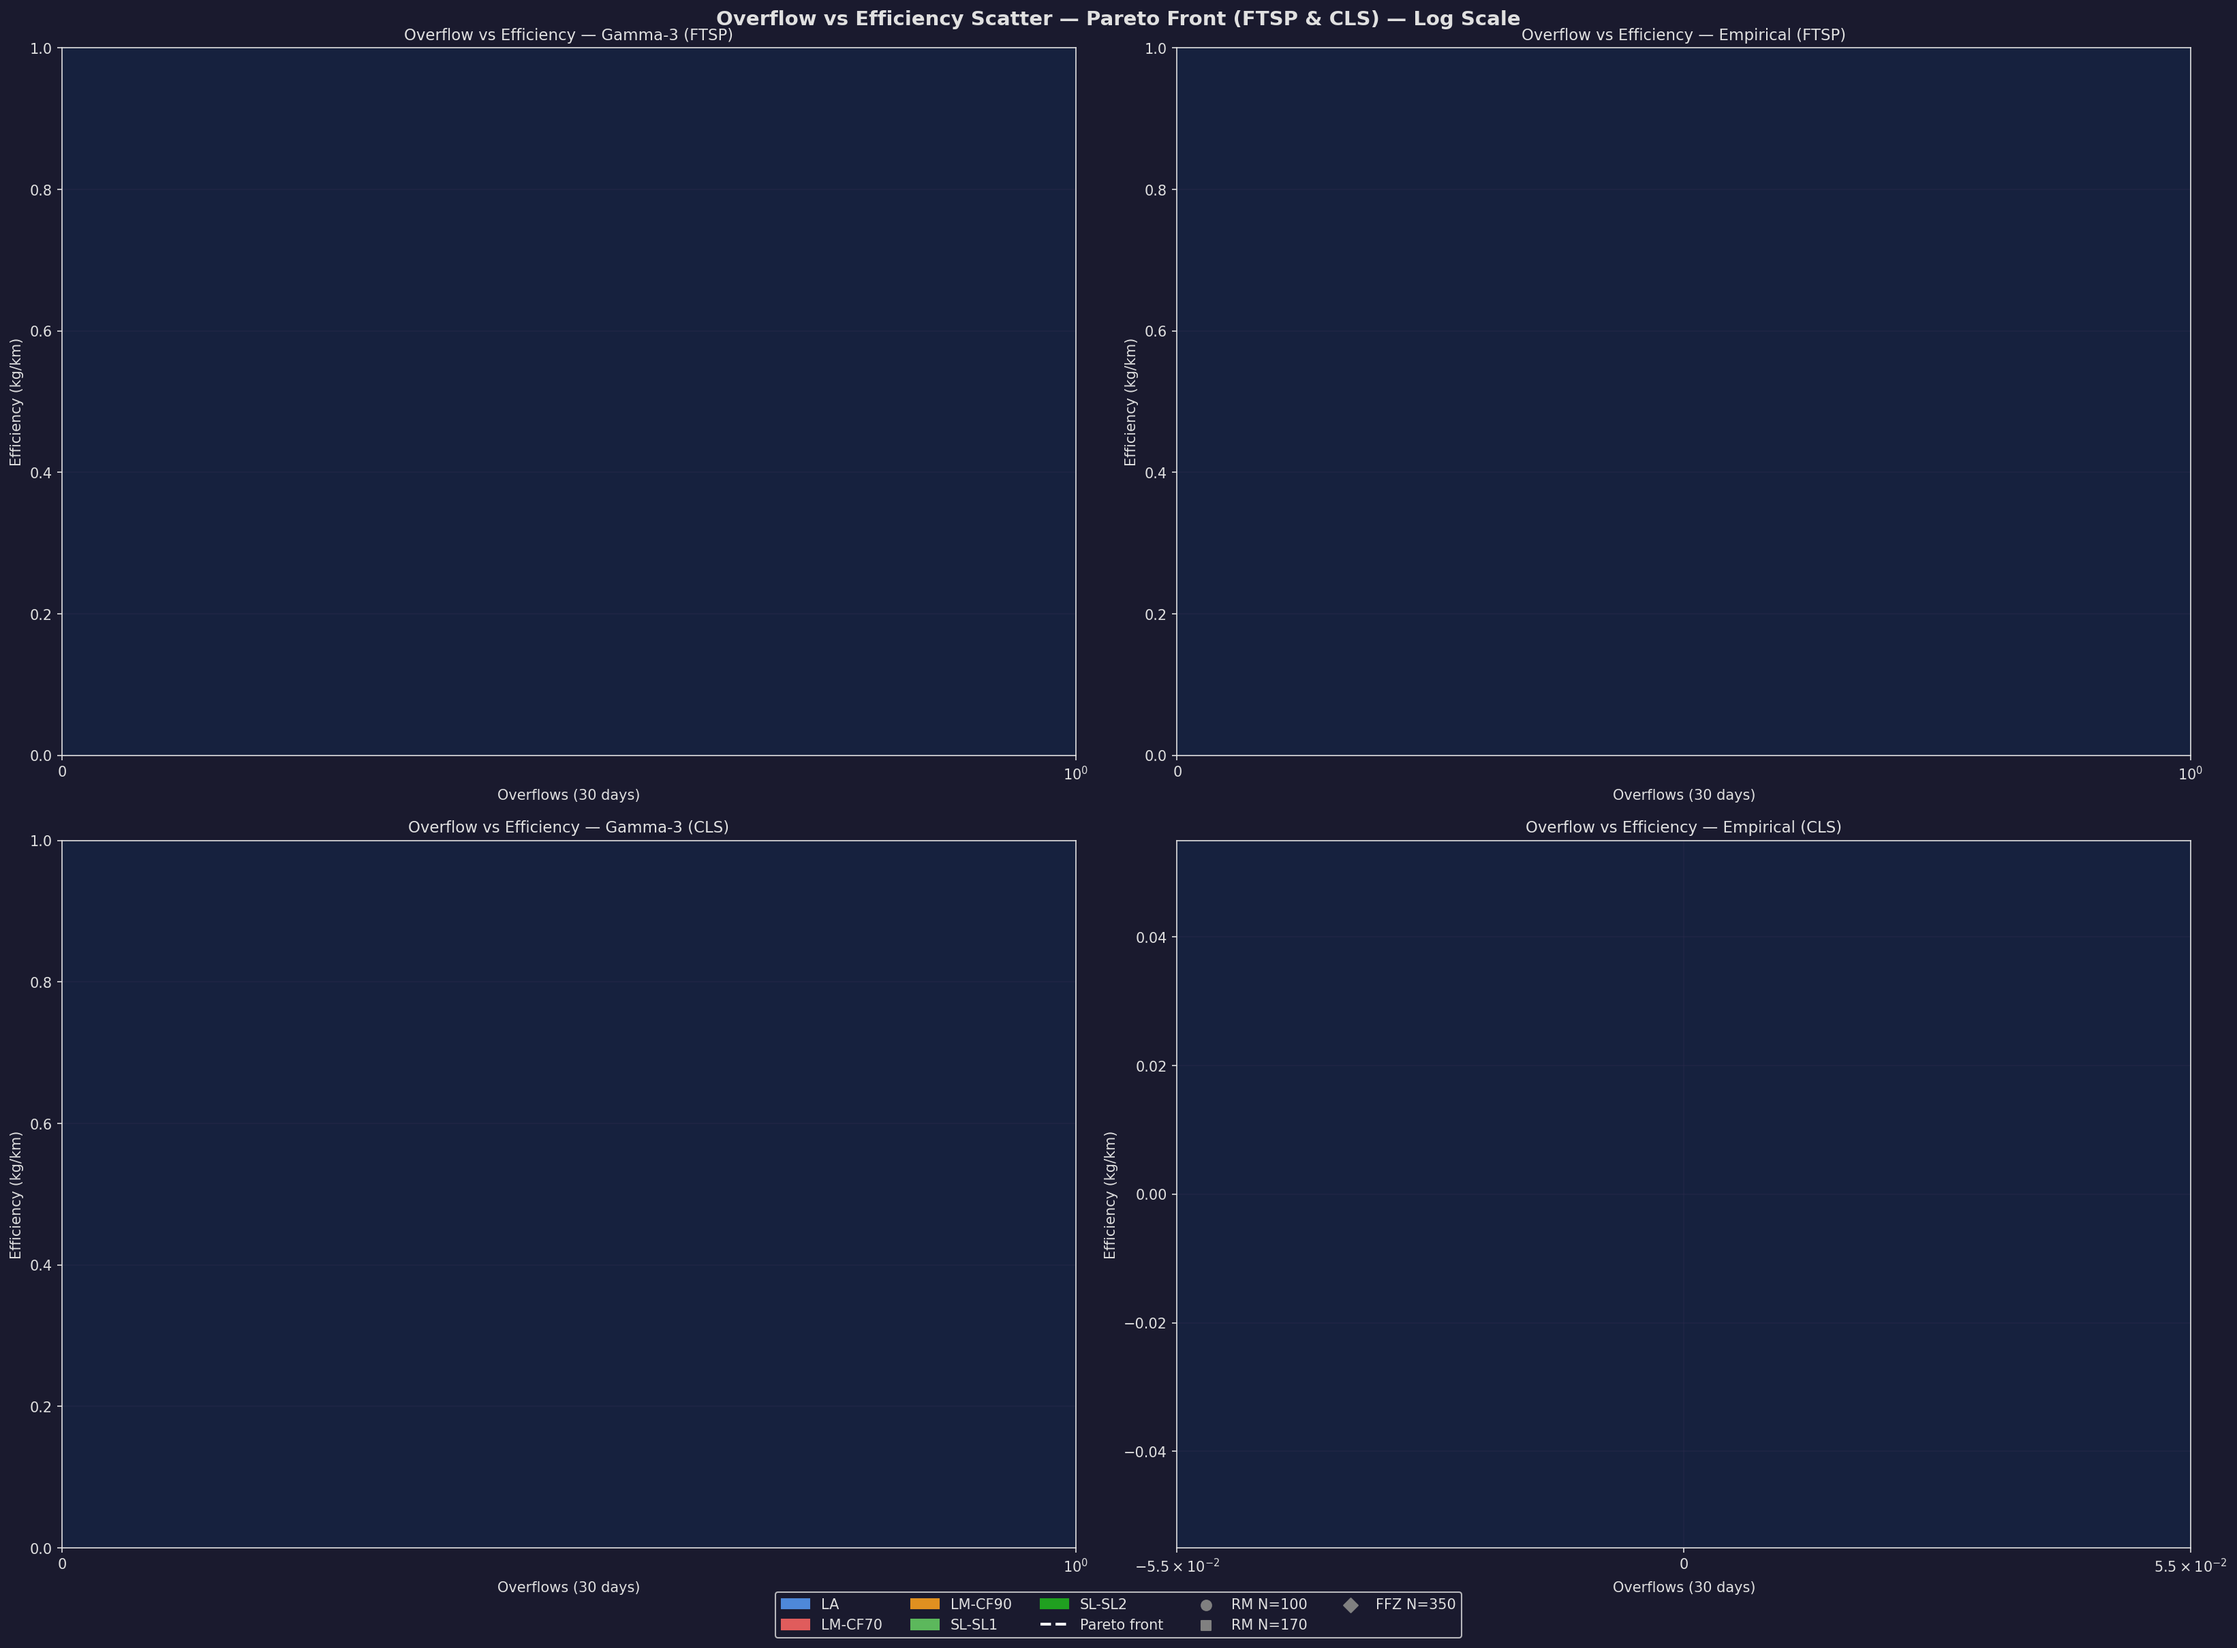
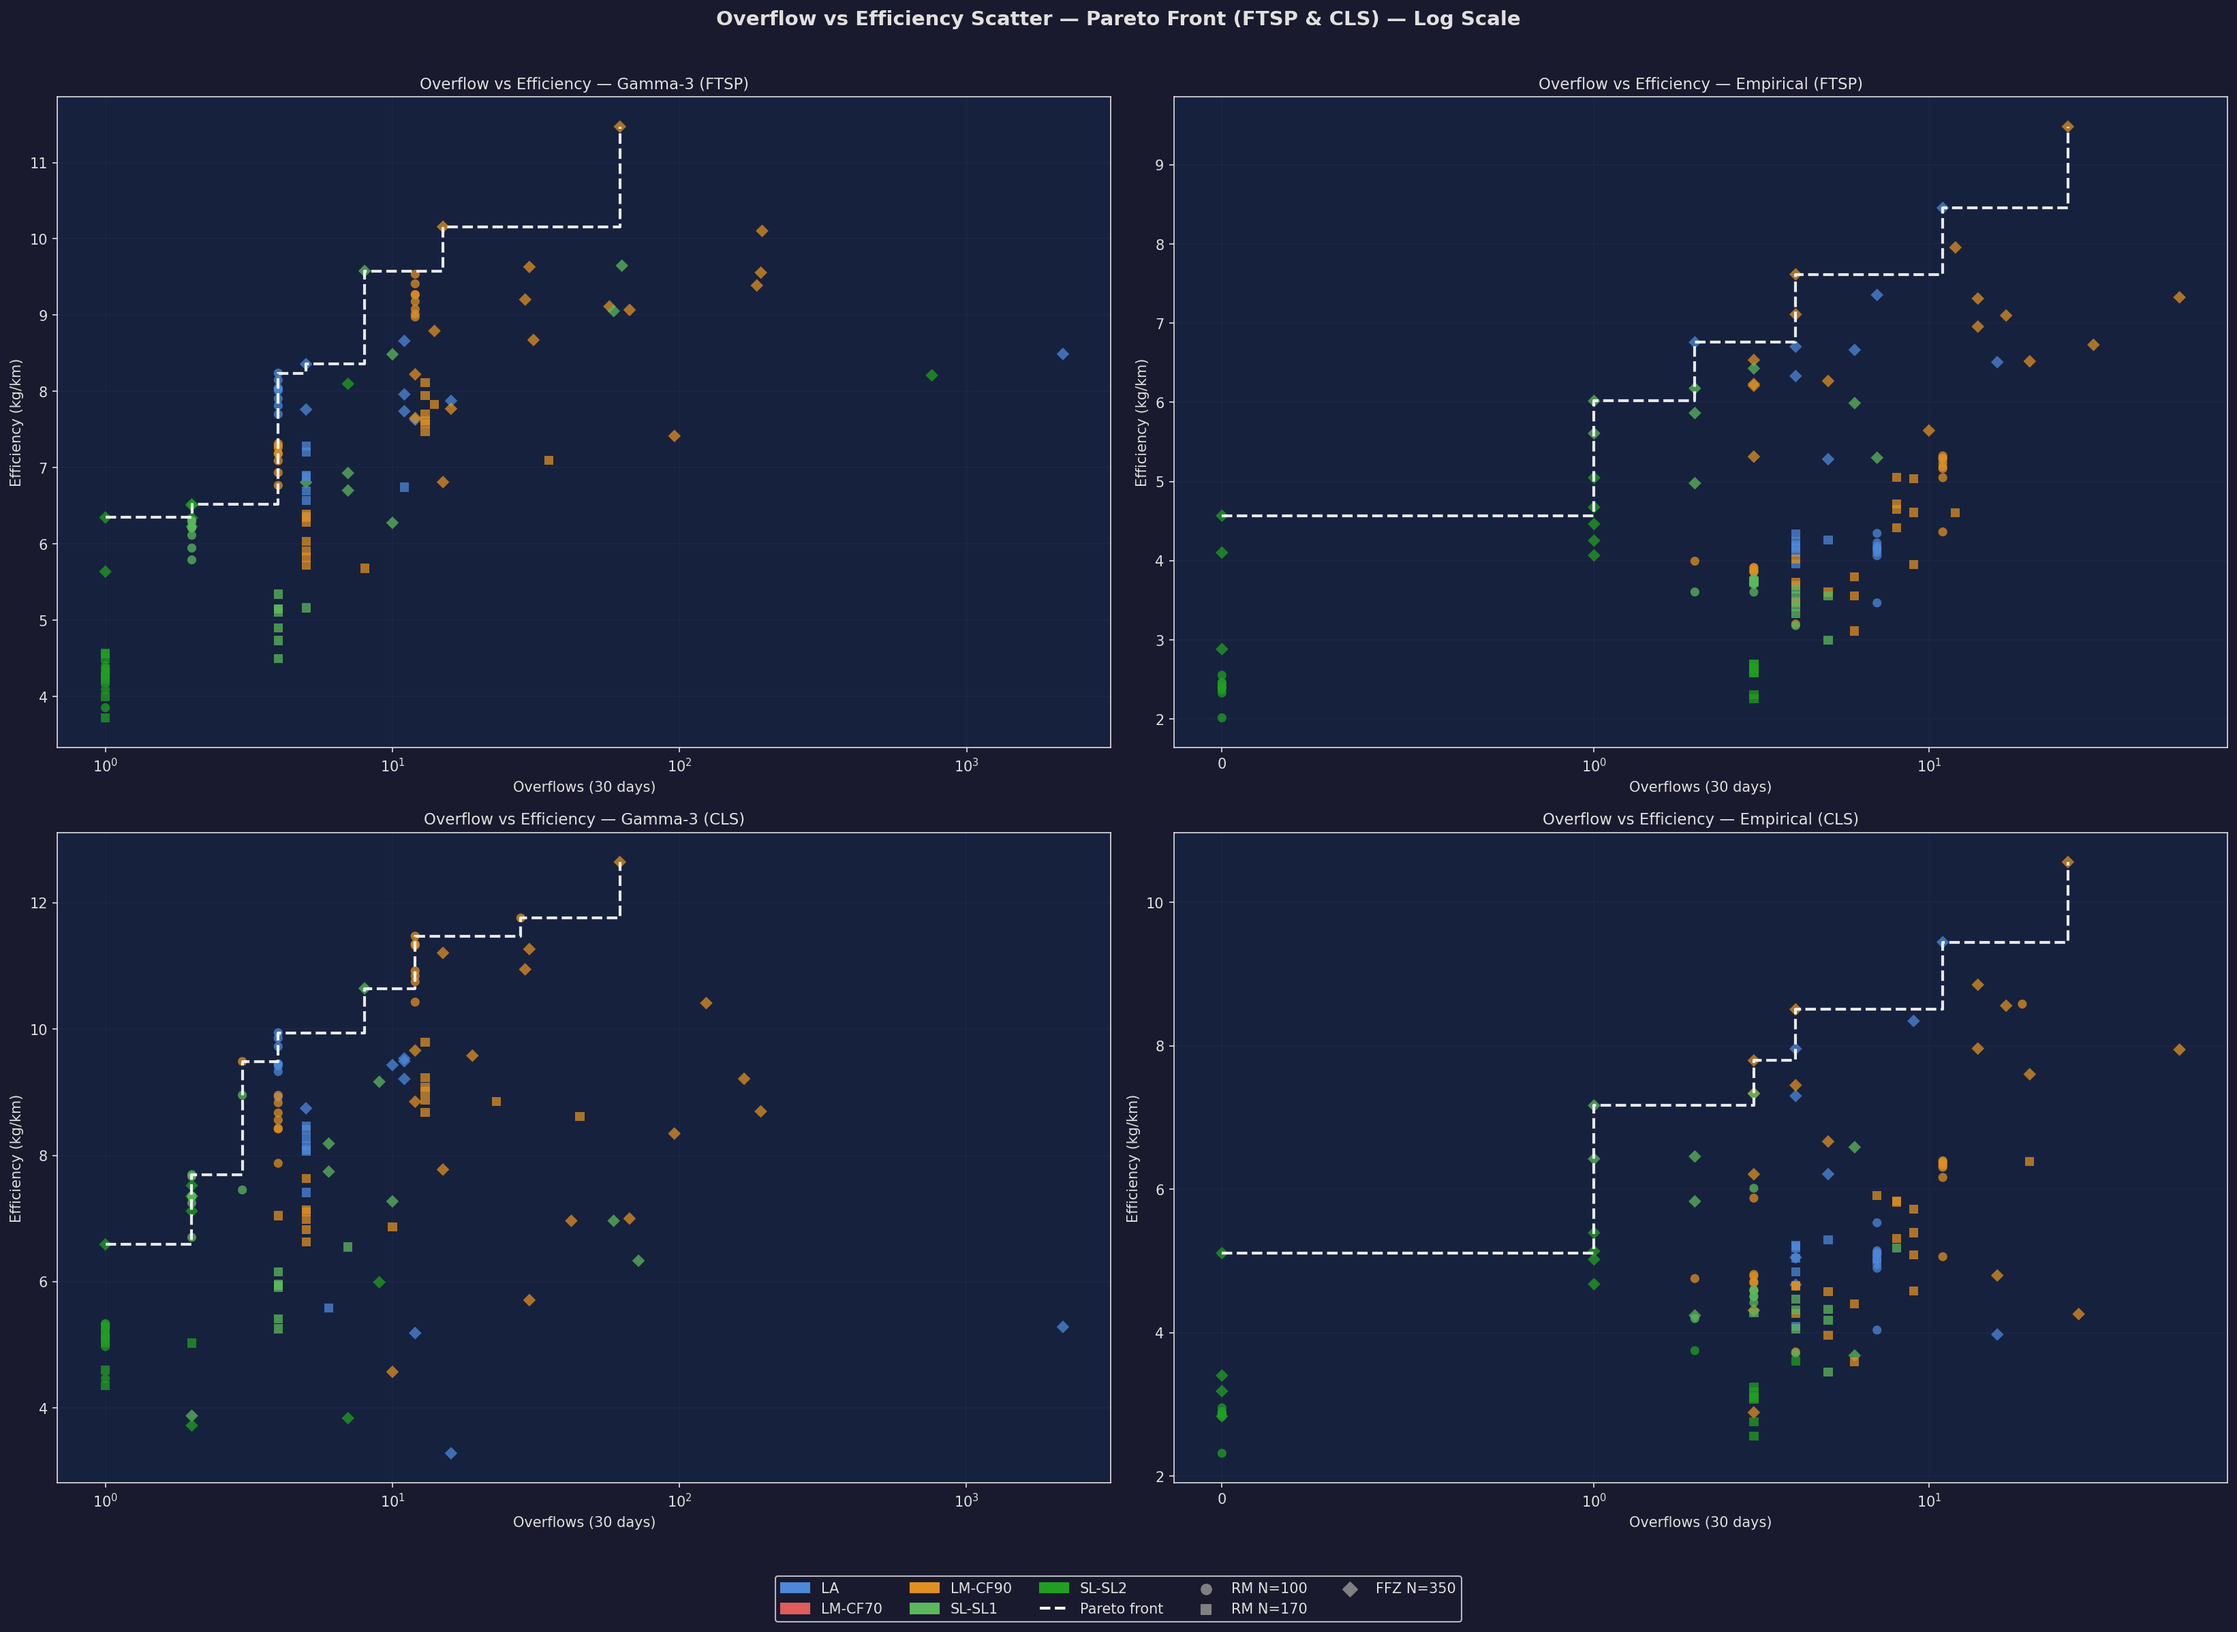
Fix pareto scatter empty panels and gen_simulation_analysis.py syntax errors
- Pareto scatter was empty due to groupby dropping NaN cf/sl_var rows; fix
  uses raw df directly and corrects float cf value comparison (70.0 not 'CF70')
- Fix N comparison: column is string so compare to '100'/'170' not int
- Fix nested f-string SyntaxError (Python <3.12) by pre-computing section8
- Fix two Unicode minus U+2212 characters causing SyntaxError in script

Claude-Session: https://claude.ai/code/session_01MMJAkmN9aD9F7hXRVayPQc

diff --git a/logic/scripts/gen_simulation_analysis.py b/logic/scripts/gen_simulation_analysis.py
@@ -355,13 +355,20 @@ def gen_pareto_scatter(dfm: pd.DataFrame, df_raw: pd.DataFrame, panels: list, ou
 
     def get_color(row):
         s = row["strategy"]
-        if s == "LA": return "#4e88d9"
-        if s == "LM": return "#e05c5c" if row.get("cf") == "CF70" else "#e09020"
-        return "#5cb85c" if row.get("sl_var") == "SL1" else "#20a020"
+        if s == "LA":
+            return "#4e88d9"
+        if s == "LM":
+            cf = row["cf"]
+            try:
+                return "#e05c5c" if float(cf) < 80 else "#e09020"
+            except (ValueError, TypeError):
+                return "#e09020"
+        sv = str(row["sl_var"]) if not (isinstance(row["sl_var"], float) and np.isnan(row["sl_var"])) else ""
+        return "#5cb85c" if sv == "SL1" else "#20a020"
 
     def get_marker(row):
         if "Figueira" in str(row["city"]): return "D"
-        return "o" if row["N"] == 100 else "s"
+        return "o" if str(row["N"]) == "100" else "s"
 
     def pareto_front(xs, ys):
         pts = sorted(zip(xs, ys), key=lambda p: (p[0], -p[1]))
@@ -679,7 +686,7 @@ def gen_ftsp_vs_cls(dfm: pd.DataFrame, out_dir: Path) -> tuple[Path, Path]:
     CONSTRUCTORS = dfm["constructor"].unique().tolist()
     col_labels = [f"{city_label(c,N)}\n{d[:3]}\n{s}" for c, N, d, s in configs]
     fig2, axes2 = plt.subplots(1, 2, figsize=(28, 10))
-    fig2.suptitle("FTSP vs CLS Delta Heatmap (CLS − FTSP)", fontsize=14, fontweight="bold")
+    fig2.suptitle("FTSP vs CLS Delta Heatmap (CLS - FTSP)", fontsize=14, fontweight="bold")
     for ax_i, (metric, cmap) in enumerate([("overflows","RdYlGn_r"),("kgkm","RdYlGn")]):
         ax = axes2[ax_i]
         ax.set_facecolor("#16213e")
@@ -991,6 +998,20 @@ def generate_markdown(df: pd.DataFrame, dfm: pd.DataFrame, panels: list,
         "| Balanced trade-off | LA | <!-- constructor --> | <!-- improver --> | <!-- notes --> |",
     ])
 
+    # Pre-compute conditional sections (avoid nested f-strings — not supported in Python <3.12)
+    if has_both_imp:
+        section8 = (
+            "\n    ## 8. FTSP vs CLS Route Improver Comparison\n\n"
+            f"    ![FTSP vs CLS Comparison]({figures_rel}/ftsp_vs_cls_comparison.png)\n\n"
+            "    *FTSP vs CLS scatter per metric. Points above the diagonal = CLS > FTSP; below = FTSP > CLS.*\n\n"
+            f"    ![FTSP vs CLS Delta Heatmap]({figures_rel}/ftsp_vs_cls_delta.png)\n\n"
+            "    *Delta heatmap (CLS - FTSP) per constructor x configuration. Red = FTSP better, green = CLS better.*\n\n"
+            f"    {PLACEHOLDER}\n\n"
+            "    ---\n"
+        )
+    else:
+        section8 = ""
+
     md = textwrap.dedent(f"""\
     # WSmart+ Route — Simulation Analysis Report
 
@@ -1177,21 +1198,7 @@ def generate_markdown(df: pd.DataFrame, dfm: pd.DataFrame, panels: list,
     {PLACEHOLDER}
 
     ---
-    {"" if not has_both_imp else f"""
-    ## 8. FTSP vs CLS Route Improver Comparison
-
-    ![FTSP vs CLS Comparison]({figures_rel}/ftsp_vs_cls_comparison.png)
-
-    *FTSP vs CLS scatter per metric. Points above the diagonal = CLS > FTSP; below = FTSP > CLS.*
-
-    ![FTSP vs CLS Delta Heatmap]({figures_rel}/ftsp_vs_cls_delta.png)
-
-    *Delta heatmap (CLS − FTSP) per constructor × configuration. Red = FTSP better, green = CLS better.*
-
-    {PLACEHOLDER}
-
-    ---
-    """}
+    {section8}
 
     {chr(10).join(city_sections)}
 
